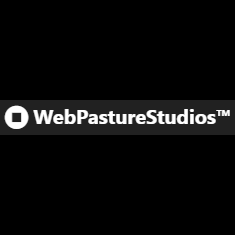
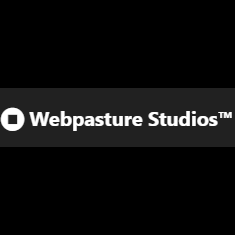
update: slide splashscreen

Changed region(s): [[0.0, 0.3574, 1.0, 0.6255]]

diff --git a/index.html b/index.html
@@ -13,7 +13,7 @@
   <nav class="navbar navbar-expand-md navbar-dark bg-dark sticky-top">
     <div class="container-fluid"> <a class="navbar-brand" href="#">
         <i class="fa d-inline fa-lg fa-stop-circle"></i>
-        <b> WebPastureStudios™</b>
+        <b> Webpasture Studios™</b>
       </a> <button class="navbar-toggler navbar-toggler-right border-0" type="button" data-toggle="collapse" data-target="#navbar10">
         <span class="navbar-toggler-icon"></span>
       </button>
